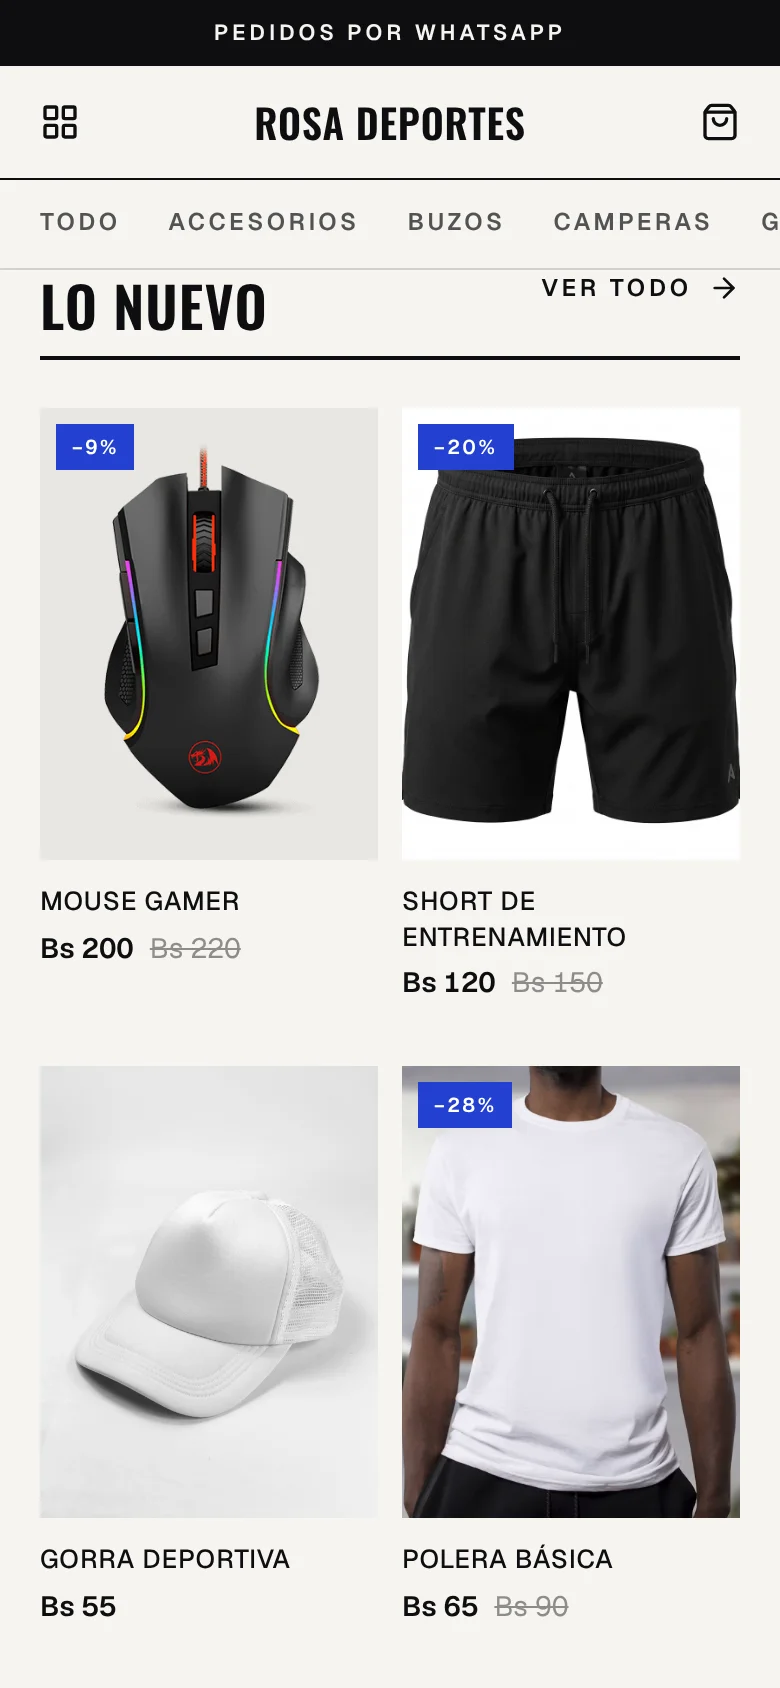
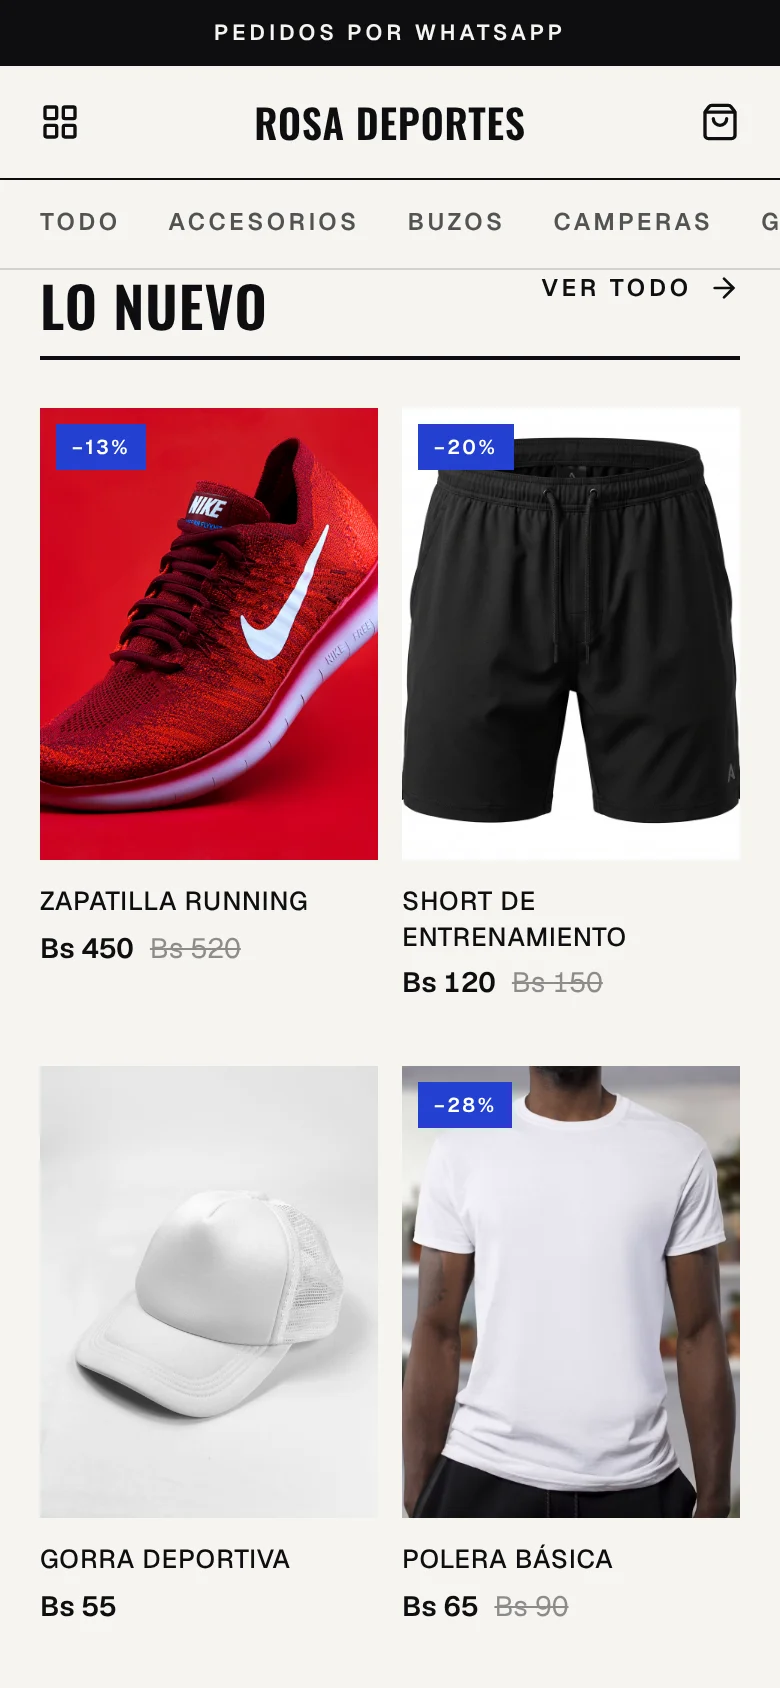
La bajada de la portada no promete cargar stock, y el celular muestra una zapatilla
"Con el stock de cada producto" nombraba justo la parte más pesada de empezar.
La bajada ahora dice que subes tus productos desde el celular y un panel te
muestra lo que vendes.

El primer producto de Rosa Deportes es un mouse gamer, que en la captura del
celular no pega con una tienda de deportes. La captura se volvió a sacar con
esa tarjeta cambiada por una zapatilla de running, con la foto de los datos de
ejemplo; el pie dice que la tienda es ilustrativa.

Claude-Session: https://claude.ai/code/session_011GtYxSAQzyT6tdFtP9NR97

Changed region(s): [[0.0308, 0.2156, 0.4923, 0.5853]]

diff --git a/components/landing/vitrina.tsx b/components/landing/vitrina.tsx
@@ -25,7 +25,11 @@ import tiendaRosa from "@/public/portada/tienda-rosa.webp"
  * regla.
  *
  * La captura de la tienda es un archivo: si su diseño cambia, se vuelve a
- * sacar a 390 px de ancho y doble densidad, desde la sección "Lo nuevo".
+ * sacar a 390 px de ancho y doble densidad, desde la sección "Lo nuevo". Está
+ * retocada: el primer producto de la tienda era un mouse gamer, que no pega en
+ * una tienda de deportes, y en la captura es una zapatilla de running, con la
+ * foto de los datos de ejemplo (`lib/demo-data.ts`). Por eso el pie dice que
+ * la tienda es ilustrativa.
  */
 
 const PEDIDO = {
@@ -106,7 +110,7 @@ export function Vitrina() {
 
       <figcaption className="mt-3 text-xs leading-relaxed opacity-65">
         En el celular, Rosa Deportes, una tienda de demostración hecha con
-        Venduo. El pedido y el stock son ilustrativos.
+        Venduo. La tienda, el pedido y el stock son ilustrativos.
       </figcaption>
     </figure>
   )

diff --git a/app/page.tsx b/app/page.tsx
@@ -260,8 +260,9 @@ export default async function Inicio() {
                 </span>
               </h1>
               <p className="mt-6 max-w-[50ch] text-lg leading-relaxed opacity-70">
-                Elige una plantilla y tu tienda queda armada, con el stock de
-                cada producto y un panel con lo que vendes cada día.
+                Elige una plantilla y tu tienda queda armada. Subes tus
+                productos desde el celular y un panel te muestra lo que vendes
+                cada día.
               </p>
 
               <ul className="mt-7 grid max-w-[34rem] gap-x-6 sm:grid-cols-2">

diff --git a/.impeccable/surfaces/app-page-tsx.md b/.impeccable/surfaces/app-page-tsx.md
@@ -51,7 +51,8 @@ el aviso de Venduo de un pedido nuevo y el stock que se está acabando en rojo. 
 scroll para llegar a la acción en la computadora.
 
 La foto es de Pexels (7309930, licencia libre) y la captura sale de la tienda publicada,
-a 390 px y doble densidad, desde la sección "Lo nuevo". Las dos viven en
+a 390 px y doble densidad, desde la sección "Lo nuevo", con el primer producto (un
+mouse gamer) cambiado por una zapatilla de running antes de sacarla. Las dos viven en
 `public/portada/`: si la tienda de Rosa cambia, la captura se vuelve a sacar.
 
 FORM: Editorial impreso, dirección fijada por el usuario sobre una referencia propia que
